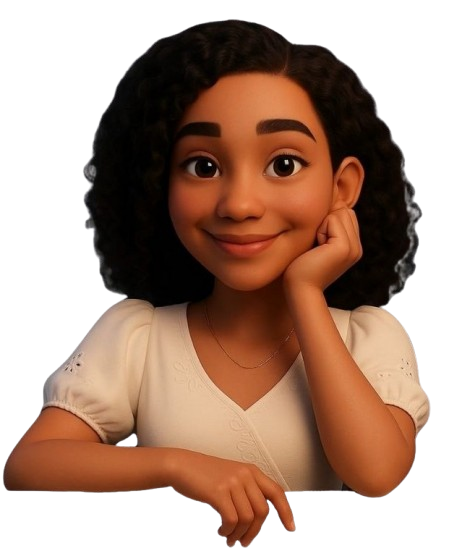
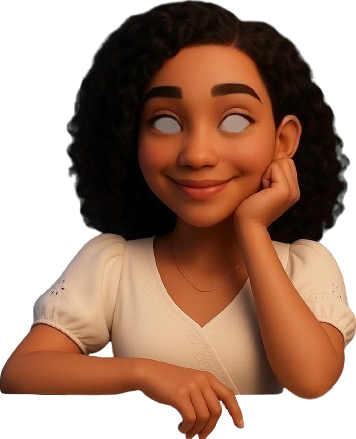
Created Project Section

Changed region(s): [[0.0, 0.0, 1.0, 1.0], [0.1236, 0.6219, 0.1854, 0.6811]]

diff --git a/app/components/Project.js b/app/components/Project.js
@@ -1,30 +1,45 @@
 "use client";
 
-import React, { useState } from "react";
+import React, { useEffect, useState } from "react";
 import { FaChevronLeft, FaChevronRight, FaGithub, FaExternalLinkAlt, FaLink } from "react-icons/fa";
 export const Project = () => {
     const [currentIndex, setCurrentIndex] = useState(0);
 
     const cards = [
         {
-            title: "Project 1",
-            img: "https://dummyimage.com/320x200",
-            desc: "Photo booth fam kinfolk cold-pressed sriracha...",
+            title: "LearnTrack",
+            img: "/LearnTrack.jpg",
+            desc: "LearnTrack is a student report management app built with Angular and Spring Boot, providing seamless tracking and management of academic performance.",
+            liveLink:"http://localhost:4200/report/new",
+            githubLink: "https://github.dev/sakshishetty632/form-report-client",
         },
         {
-            title: "Project 2",
-            img: "https://dummyimage.com/320x200",
-            desc: "Photo booth fam kinfolk cold-pressed sriracha...",
+            title: "MAAS",
+            img: "/Maas.jpg",
+            desc: "MaaS is a lightweight, scalable solution for real-time system monitoring, tracking CPU, memory, disk usage, and service health with a centralized dashboard and alerting.",
+            liveLink:"",
+            githubLink: "https://github.com/sakshishetty632/monitoring-as-a-service",
         },
         {
-            title: "Project 3",
-            img: "https://dummyimage.com/320x200",
-            desc: "Photo booth fam kinfolk cold-pressed sriracha...",
+            title: "QR Code Generator",
+            img: "/QRCodeGenerator.jpg",
+            desc: "The QR Code Generator is a Flask and Python-based tool that converts URLs into scannable QR codes, displayed as SVG images.",
+            liveLink:"https://qr-code-generator-7w2j.onrender.com",
+            githubLink: "https://github.com/sakshishetty632/qr-generator",
         },
         {
-            title: "Project 4",
-            img: "https://dummyimage.com/320x200",
-            desc: "Photo booth fam kinfolk cold-pressed sriracha...",
+            title: "YouTube Downloader",
+            img: "/YoutubeDownloader.jpg",
+            desc: "The YouTube Video Downloader is a Flask-based app using yt-dlp to download YouTube videos in various formats with ease.",
+            liveLink:"",
+            githubLink: "https://github.com/sakshishetty632/youtube-downloader",
+        },
+        {
+            title: "Instagram Clone",
+            img: "/igclone.jpg",
+            desc: "The Instagram Clone is a web app built with HTML and CSS, replicating the core design and layout of the Instagram platform.",
+            liveLink:"https://sakshi-shetty-instagram-clone.vercel.app/",
+            githubLink: "https://github.com/sakshishetty632/instagram-clone",
         },
     ];
 
@@ -33,21 +48,65 @@ export const Project = () => {
     const nextSlide = () =>
         setCurrentIndex((prev) => (prev === cards.length - 1 ? 0 : prev + 1));
 
+    useEffect(() => {
+        const handleMouseMove = (event) => {
+            const mouseX = event.clientX;
+            const mouseY = event.clientY;
+    
+            const anchor = document.getElementById('anchor');
+            const rekt = anchor.getBoundingClientRect();
+            const anchorX = rekt.left + rekt.width / 2;
+            const anchorY = rekt.top + rekt.height / 2;
+    
+            const dx = mouseX - anchorX;
+            const dy = mouseY - anchorY;
+    
+            const distance = Math.min(Math.sqrt(dx * dx + dy * dy), 50);
+            const angle = Math.atan2(dy, dx);
+            const offsetX = Math.cos(angle) * (distance / 32);
+            const offsetY = Math.sin(angle) * (distance / 32);
+    
+            const eyes = document.querySelectorAll('.eye');
+            eyes.forEach((eye) => {
+                eye.style.transform = `translate(${offsetX}px, ${offsetY}px)`;
+            });
+        };
+    
+        window.addEventListener('mousemove', handleMouseMove);
+    
+        const interval = setInterval(() => {
+            setCurrentIndex((prev) => (prev === cards.length - 1 ? 0 : prev + 1));
+        }, 1000); // Auto slide every 4 seconds
+    
+        return () => {
+            window.removeEventListener('mousemove', handleMouseMove);
+            clearInterval(interval); // Cleanup interval on component unmount
+        };
+    }, [cards.length]);
+
     return (
         <section id="project" className="text-teal-700 flex flex-col mt-12 items-center justify-center relative">
-            <h2 className=" text-3xl sm:text-6xl  text-center w-full mt-18 mb-2">Projects</h2>
+            {/* <h2 className=" text-3xl sm:text-6xl text-center w-full mb-2">Projects</h2> */}
 
             {/* Overlapping Top Image */}
-            <div className="absolute top-38 left-1/2 transform -translate-x-1/2 z-10">
+            {/* <div className="relative"> */}
+            <div className="absolute top-26 left-1/2 transform -translate-x-1/2 z-10">
                 <img
+                    id="anchor"
                     src='/SakshiShettyProject.png'
                     alt="Top Character"
-                    className="w-50 h-50 object-contain"
+                    className="w-[280px] h-[280px] object-contain"
                 />
+
+                <div className="eyes">
+                    <img src="/eye.png" className="eye absolute top-[74.5px] left-[127px] h-[10px] w-[10px]" />
+                    <img src="/eye.png" className="eye absolute top-[73.5px] left-[171px] h-[10.3px] w-[10.3px]" />
+                </div>
             </div>
+            {/* </div> */}
 
             {/* Carousel */}
-            <div className="container px-20 pt-47 pb-20 mx-auto relative z-0">
+            <div className="container px-20 pt-[355px] pb-20 mx-auto relative z-0">
                 <div className="relative bg-gray-200 rounded-xl px-6 py-8">
                     {/* Navigation Arrows */}
                     <button
@@ -72,7 +131,7 @@ export const Project = () => {
                             .map((card, index) => (
                                 <div
                                     key={index}
-                                    className="w-full sm:w-1/4 sm:h-1/3 px-2 flex-shrink-0"
+                                    className="w-full h-40 sm:w-1/4 sm:h-1/3 px-2 flex-shrink-0"
                                 >
                                     <div className="group relative border-1 border-teal-700 border-opacity-20 rounded-lg overflow-hidden bg-white">
                                         <div className="relative">
@@ -99,21 +158,21 @@ export const Project = () => {
                                                 >
                                                     <FaGithub />
                                                 </a>
-                                                <a
+                                                {/* <a
                                                     href={card.thirdLink}
                                                     target="_blank"
                                                     rel="noopener noreferrer"
                                                     className="text-gray-300 hover:text-white text-2xl"
                                                 >
                                                     <FaLink />
-                                                </a>
+                                                </a> */}
                                             </div>
 
                                         </div>
 
                                         <div className="p-2">
                                             <h1 className="title-font text-lg font-medium text-teal-900 mb-1">{card.title}</h1>
-                                            <p className="leading-relaxed mb-1">{card.desc}</p>
+                                            <p className="leading-relaxed mb-1 line-clamp-3">{card.desc}</p>
                                         </div>
                                     </div>
 

diff --git a/app/components/Contact.js b/app/components/Contact.js
@@ -3,7 +3,7 @@ import React from 'react';
 export const Contact = () => {
   return (
     <section id="feedback" className="text-teal-700 body-font relative">
-    <h2 className=" text-3xl sm:text-6xl mb-1 text-center w-full mt-20">Contact Me</h2>
+    <h2 className=" text-3xl sm:text-6xl mb-1 text-center w-full mt-10">Contact Me</h2>
       <div className="container px-5 mx-auto flex sm:flex-nowrap flex-wrap">
       <div className="lg:w-[30rem]  md:w-1/2 w-5/6">
         <video
@@ -20,7 +20,7 @@ export const Contact = () => {
         </div>
 
         {/* Contact Form */}
-        <div className="lg:w-1/2 md:w-1/2 bg-white flex flex-col md:ml-auto w-full md:py-2 mt-8 md:mt-0">
+        <div className="lg:w-1/2 md:w-1/2 bg-white flex flex-col md:ml-auto w-full md:py-2 mt-8 md:mt-0 mb-9">
           <p className="leading-relaxed mb-5 text-teal-700">
           Hey there! I'm always looking to learn and improve — if something stood out (good or bad), feel free to let me know. I truly appreciate it 💜
           </p>

diff --git a/tailwind.config.js b/tailwind.config.js
@@ -25,7 +25,9 @@ module.exports = {
           heropattern: "url(/herobgc.jpg)",
         }
       },
-      plugins: [],
+      plugins: [
+        require('@tailwindcss/line-clamp'),
+      ],
     }
   }
   
